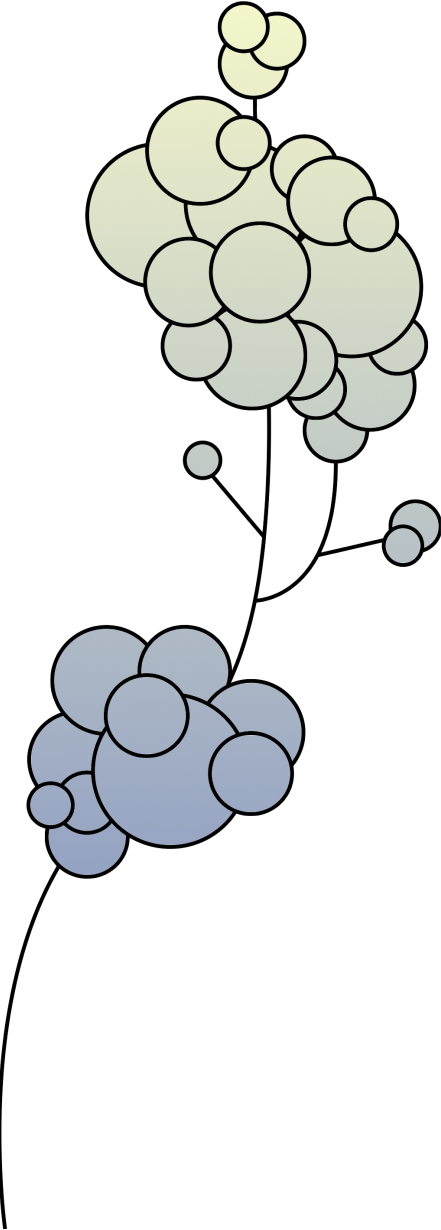
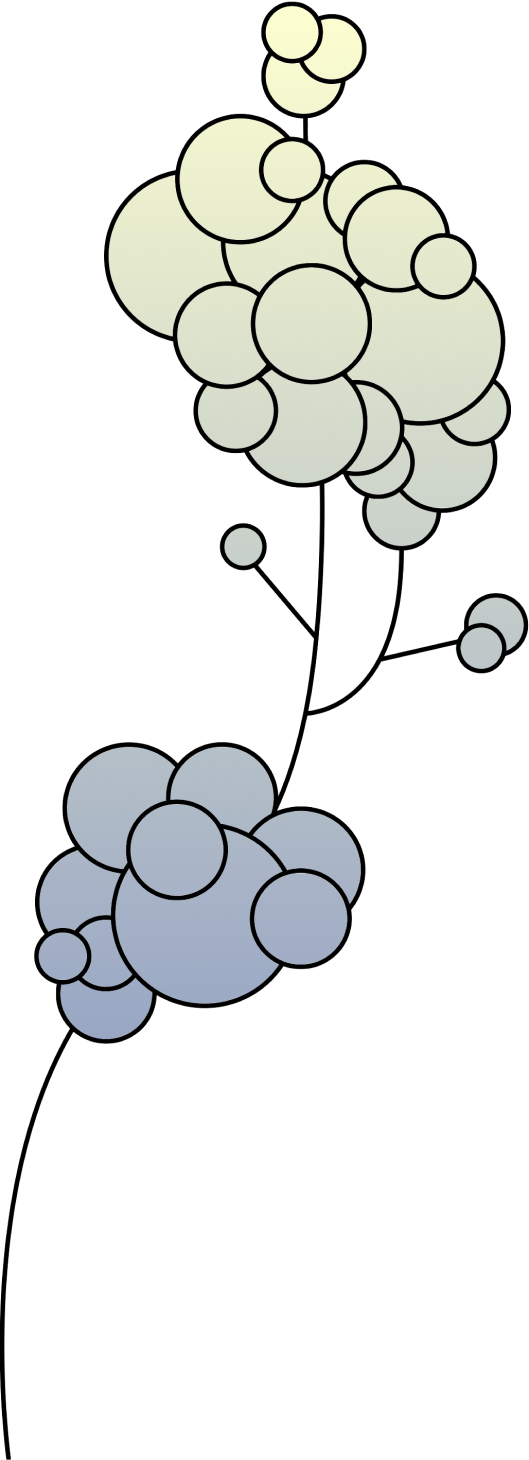
Adjust responsive styles fix remaining UI bugs

diff --git a/app/components/bio.tsx b/app/components/bio.tsx
@@ -1,6 +1,6 @@
 export function Bio() {
   return (
-    <section className="h-screen p-32 text-blue-950 leading-relaxed">
+    <section className="py-64 px-16 md:pb-48 xl:pt-32 xl:px-20 xl:pb-20 text-blue-950 leading-relaxed">
       <div className="container flex flex-col gap-10">
         <div>
           <h1 className="text-4xl font-serif font-light">
@@ -8,12 +8,26 @@ export function Bio() {
             <span>Montreal-based software engineer.</span>
           </h1>
         </div>
-        <div className="w-[38rem] flex flex-col gap-6">
+        <div className="w-auto lg:w-[38rem] flex flex-col gap-6">
           <p>
-            I'm a full stack developer, Rubyist, and amateur hydroponic
-            gardener. My past projects include Les Produits Du Québec, Québec
-            Sans Tabac, and the SaaS platform IFiveMe. I'm also the creator
-            Sezia, a cosmetic ingredient analyzer for fungal skin disorders.
+            I'm a back end developer, Rubyist, and amateur hydroponic gardener.
+            My past projects include{" "}
+            <a className="underline" href="https://lesproduitsduquebec.com">
+              Les Produits Du Québec
+            </a>
+            ,{" "}
+            <a className="underline" href="https://www.quebecsanstabac.ca">
+              Québec Sans Tabac
+            </a>
+            , and the SaaS platform{" "}
+            <a className="underline" href="https://www.ifiveme.com/en/home">
+              IFiveMe
+            </a>
+            . I'm also the creator of{" "}
+            <a className="underline" href="https://sezia.co">
+              Sezia
+            </a>
+            , a cosmetic ingredient analyzer for fungal skin disorders.
           </p>
           <p>
             Whether I'm optimizing response loads or improving my hydroponic
@@ -23,17 +37,6 @@ export function Bio() {
               GitHub projects
             </a>{" "}
             to see what's caught my interest lately.
-          </p>
-        </div>
-        <div className="flex gap-14">
-          <p className="flex items-center">
-            <span className="bullet bg-[#94a8d4]"></span>Backend Engineering
-          </p>
-          <p className="flex items-center">
-            <span className="bullet bg-[#F9FDFD]"></span>Frontend Engineering
-          </p>
-          <p className="flex items-center">
-            <span className="bullet bg-[#FFFAD3]"></span>Data Science
           </p>
         </div>
       </div>

diff --git a/app/components/footer.tsx b/app/components/footer.tsx
@@ -1,20 +1,39 @@
+import { motion } from "framer-motion";
+
 import Image from "next/image";
 import Logo from "/public/images/logo.png";
 import ShortTree from "/public/images/short-tree-black.png";
 import Circles from "/public/images/circles-black.png";
 
+const foreground = {
+  night: {
+    filter: "brightness(20%) contrast(140%)",
+  },
+  day: {
+    filter: "brightness(100%) contrast(100%)",
+    transition: {
+      type: "tween",
+      delay: 2,
+      duration: 10,
+      ease: "anticipate",
+    },
+  },
+};
+
 export function Footer() {
   return (
     <div className="footer relative w-4/5 pb-20 lg:w-auto lg:p-20 mx-auto leading-relaxed text-blue-950">
+      <motion.div variants={foreground} initial="night" animate="day">
+        <Image
+          className="absolute bottom-0 left-48 lg:left-80 lg:w-20"
+          src={ShortTree}
+          alt="text.."
+          width={130}
+          height={130}
+        />
+      </motion.div>
       <Image
-        className="absolute bottom-0 left-48 lg:left-80 lg:w-20"
-        src={ShortTree}
-        alt="text.."
-        width={130}
-        height={130}
-      />
-      <Image
-        className="absolute bottom-0 right-0 w-1/3 lg:w-72 lg:right-10"
+        className="absolute bottom-0 right-0 w-1/3 lg:w-72 lg:right-8"
         src={Circles}
         alt="text.."
         width={300}

diff --git a/app/components/scene.tsx b/app/components/scene.tsx
@@ -1,6 +1,6 @@
 "use client";
 
-import { motion, LayoutGroup } from "framer-motion";
+import { motion } from "framer-motion";
 
 import Image from "next/image";
 import Logo from "public/images/logo-white.png";
@@ -326,7 +326,7 @@ export function Scene() {
           initial="night"
           animate="day"
         >
-          <Image src={Circles} alt="text.." width={250} height={250} />
+          <Image src={Circles} alt="text.." width={200} height={200} />
         </motion.div>
         <motion.div
           className="absolute bottom-5 lg:bottom-16 right-[8%] md:right-[12%] w-32 md:w-auto"
@@ -359,7 +359,7 @@ export function Scene() {
           height="300"
           quality={100}
           priority
-          className="object-cover object-left"
+          className="object-cover object-right"
         />
       </motion.div>
     </div>

diff --git a/app/page.tsx b/app/page.tsx
@@ -2,6 +2,7 @@
 
 import { Scene } from "./components/scene";
 import { Bio } from "./components/bio";
+import { Skills } from "./components/skills";
 import { Footer } from "./components/footer";
 
 import { motion } from "framer-motion";
@@ -23,7 +24,7 @@ const background = {
 
 const foreground = {
   night: {
-    background: "linear-gradient(180deg, #070809 10%, #8797C8 100%)",
+    background: "linear-gradient(180deg, #070809 10%, #070809 100%)",
   },
   day: {
     background: "linear-gradient(180deg, #dfe3ed 0%, #EFEBC8 100%)",
